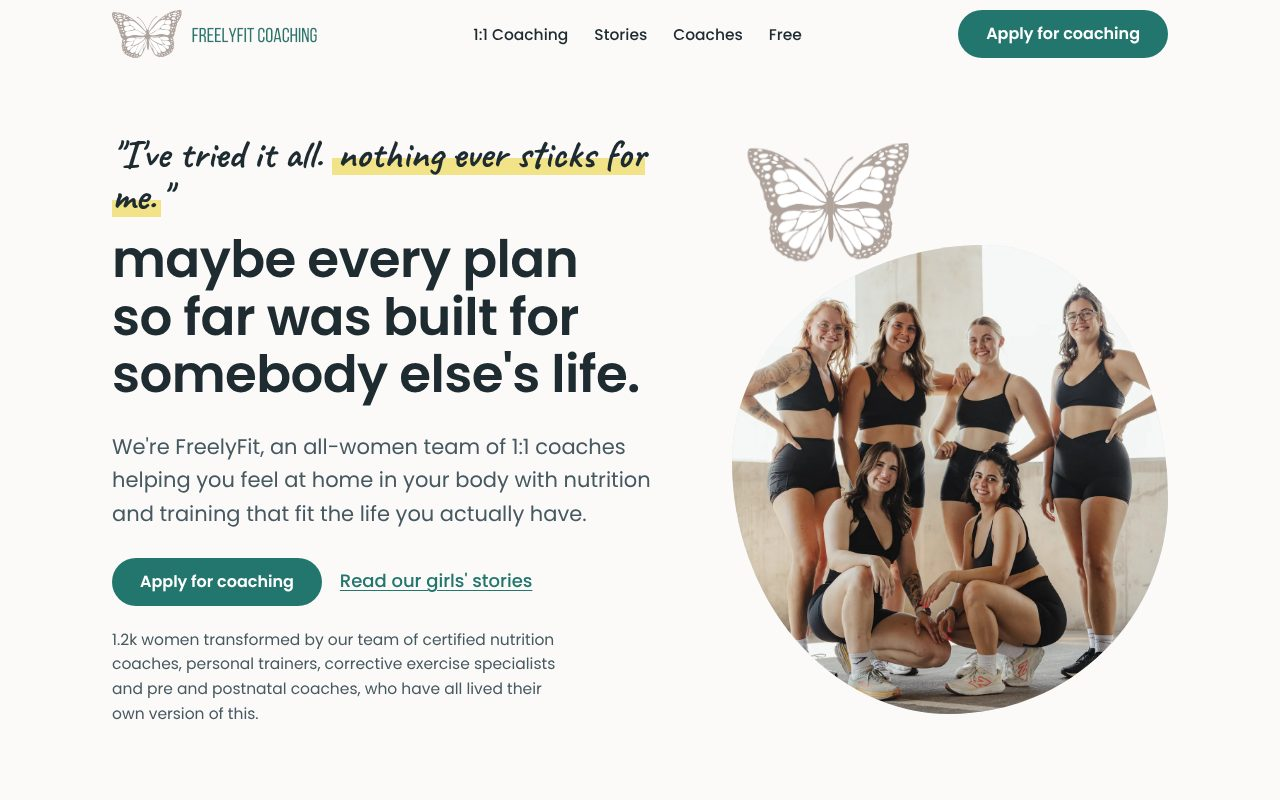
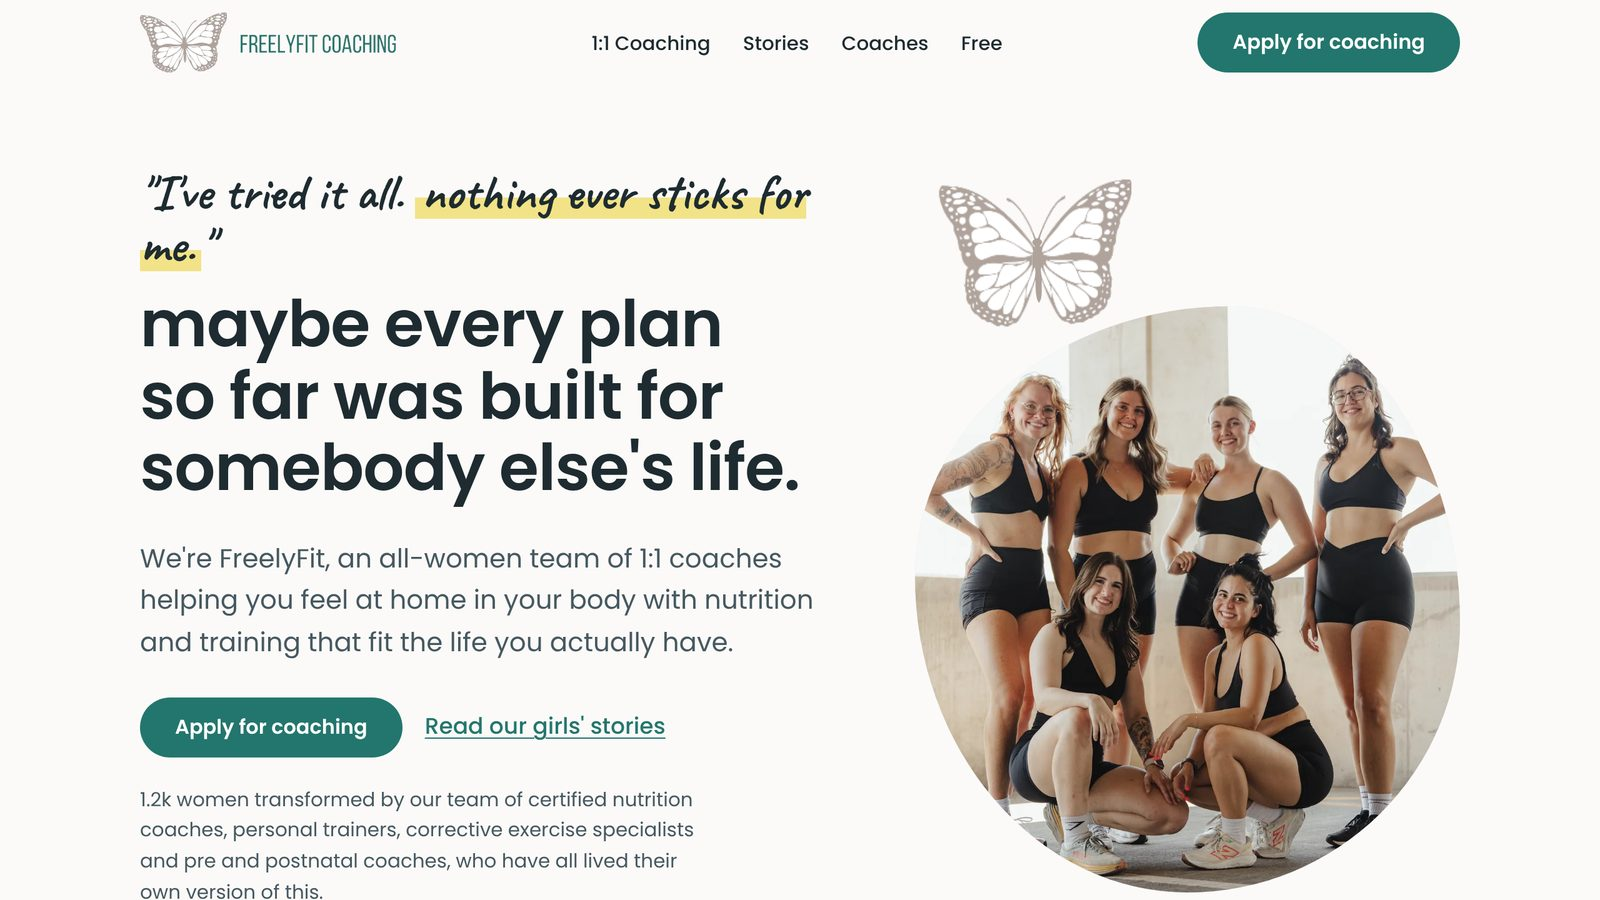
Landing pages: fresh screenshots of the updated Blonde Bouquet and FreelyFit sites
Claude-Session: https://claude.ai/code/session_017ezt8bqb8E9mR7RFcHDRpH

diff --git a/growth.html b/growth.html
@@ -274,12 +274,12 @@ button:disabled{opacity:.6;cursor:default}
 </div>
 </sc-if>
 <div style="flex: 2 1 360px; min-width: 0; padding: 14px; background: #FAFAF9; border: 1px solid #E6E6E3; border-radius: 14px">
-<img src="work-florist.jpg" width="1280" height="800" loading="lazy" alt="Home page of a wedding florist website Garrison built" style="display: block; width: 100%; height: auto; aspect-ratio: 16 / 9; object-fit: cover; object-position: top; border-radius: 8px; border: 1px solid #E6E6E3">
+<img src="work-florist.jpg?v=20261113" width="1600" height="900" loading="lazy" alt="Home page of a wedding florist website Garrison built" style="display: block; width: 100%; height: auto; aspect-ratio: 16 / 9; object-fit: cover; object-position: top; border-radius: 8px; border: 1px solid #E6E6E3">
 <div style="margin: 12px 8px 4px; font-size: 16px; color: #4A4F58"><strong style="font-weight: 600; color: #111418">A site I built.</strong> Wedding florist, Auburn.</div>
 </div>
 <sc-if value="{{web}}" hint-placeholder-val="{{ false }}">
 <div style="flex: 2 1 360px; min-width: 0; padding: 14px; background: #FAFAF9; border: 1px solid #E6E6E3; border-radius: 14px">
-<img src="work-coaching.jpg" width="1280" height="800" loading="lazy" alt="Home page of a coaching company website Garrison built" style="display: block; width: 100%; height: auto; aspect-ratio: 16 / 9; object-fit: cover; object-position: top; border-radius: 8px; border: 1px solid #E6E6E3">
+<img src="work-coaching.jpg?v=20261113" width="1600" height="900" loading="lazy" alt="Home page of a coaching company website Garrison built" style="display: block; width: 100%; height: auto; aspect-ratio: 16 / 9; object-fit: cover; object-position: top; border-radius: 8px; border: 1px solid #E6E6E3">
 <div style="margin: 12px 8px 4px; font-size: 16px; color: #4A4F58"><strong style="font-weight: 600; color: #111418">A site I built.</strong> Online coaching company.</div>
 </div>
 <div style="flex: 1 1 220px; min-width: 0; padding: 22px; background: #FAFAF9; border: 1px solid #E6E6E3; border-radius: 14px; display: flex; flex-direction: column; justify-content: center">

diff --git a/websites.html b/websites.html
@@ -274,12 +274,12 @@ button:disabled{opacity:.6;cursor:default}
 </div>
 </sc-if>
 <div style="flex: 2 1 360px; min-width: 0; padding: 14px; background: #FAFAF9; border: 1px solid #E6E6E3; border-radius: 14px">
-<img src="work-florist.jpg" width="1280" height="800" loading="lazy" alt="Home page of a wedding florist website Garrison built" style="display: block; width: 100%; height: auto; aspect-ratio: 16 / 9; object-fit: cover; object-position: top; border-radius: 8px; border: 1px solid #E6E6E3">
+<img src="work-florist.jpg?v=20261113" width="1600" height="900" loading="lazy" alt="Home page of a wedding florist website Garrison built" style="display: block; width: 100%; height: auto; aspect-ratio: 16 / 9; object-fit: cover; object-position: top; border-radius: 8px; border: 1px solid #E6E6E3">
 <div style="margin: 12px 8px 4px; font-size: 16px; color: #4A4F58"><strong style="font-weight: 600; color: #111418">A site I built.</strong> Wedding florist, Auburn.</div>
 </div>
 <sc-if value="{{web}}" hint-placeholder-val="{{ false }}">
 <div style="flex: 2 1 360px; min-width: 0; padding: 14px; background: #FAFAF9; border: 1px solid #E6E6E3; border-radius: 14px">
-<img src="work-coaching.jpg" width="1280" height="800" loading="lazy" alt="Home page of a coaching company website Garrison built" style="display: block; width: 100%; height: auto; aspect-ratio: 16 / 9; object-fit: cover; object-position: top; border-radius: 8px; border: 1px solid #E6E6E3">
+<img src="work-coaching.jpg?v=20261113" width="1600" height="900" loading="lazy" alt="Home page of a coaching company website Garrison built" style="display: block; width: 100%; height: auto; aspect-ratio: 16 / 9; object-fit: cover; object-position: top; border-radius: 8px; border: 1px solid #E6E6E3">
 <div style="margin: 12px 8px 4px; font-size: 16px; color: #4A4F58"><strong style="font-weight: 600; color: #111418">A site I built.</strong> Online coaching company.</div>
 </div>
 <div style="flex: 1 1 220px; min-width: 0; padding: 22px; background: #FAFAF9; border: 1px solid #E6E6E3; border-radius: 14px; display: flex; flex-direction: column; justify-content: center">
